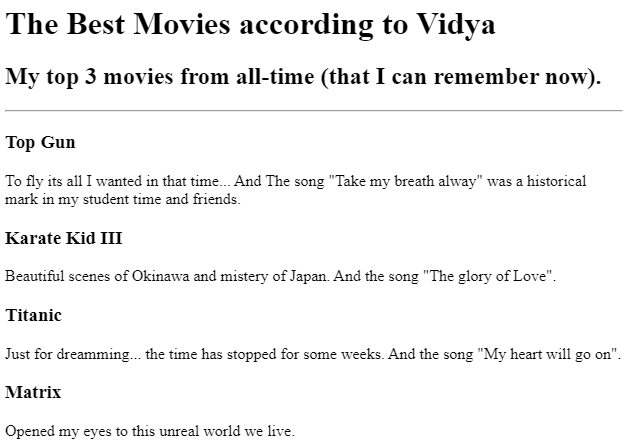
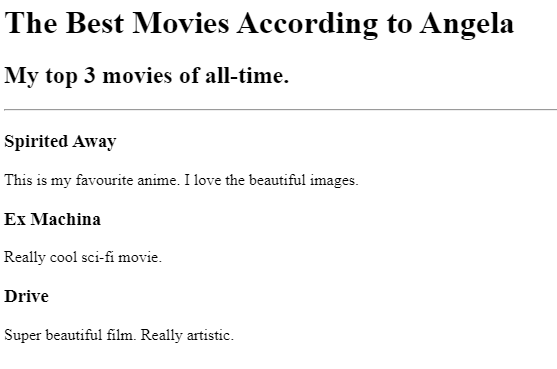
Add files via upload

diff --git a/public/movie-ranking.html b/public/movie-ranking.html
@@ -1,14 +1,9 @@
-<h1>The Best Movies according to Vidya</h1>
-<h2>My top 3 movies from all-time (that I can remember now).</h2>
+<h1>The Best Movies According to Angela</h1>
+<h2>My top 3 movies of all-time.</h2>
 <hr />
-<h3>Top Gun</h3>
-<p>To fly its all I wanted in that time... And The song "Take my breath alway" was a historical mark in my student time and friends.</p>
-
-<h3>Karate Kid III</h3>
-<p>Beautiful scenes of Okinawa and mistery of Japan. And the song "The glory of Love".</p>
-
-<h3>Titanic</h3>
-<p>Just for dreamming... the time has stopped for some weeks. And the song "My heart will go on".</p>
-
-<h3>Matrix</h3>
-<p>Opened my eyes to this unreal world we live.</p>
+<h3>Spirited Away</h3>
+<p>This is my favourite anime. I love the beautiful images.</p>
+<h3>Ex Machina</h3>
+<p>Really cool sci-fi movie.</p>
+<h3>Drive</h3>
+<p>Super beautiful film. Really artistic.</p>
